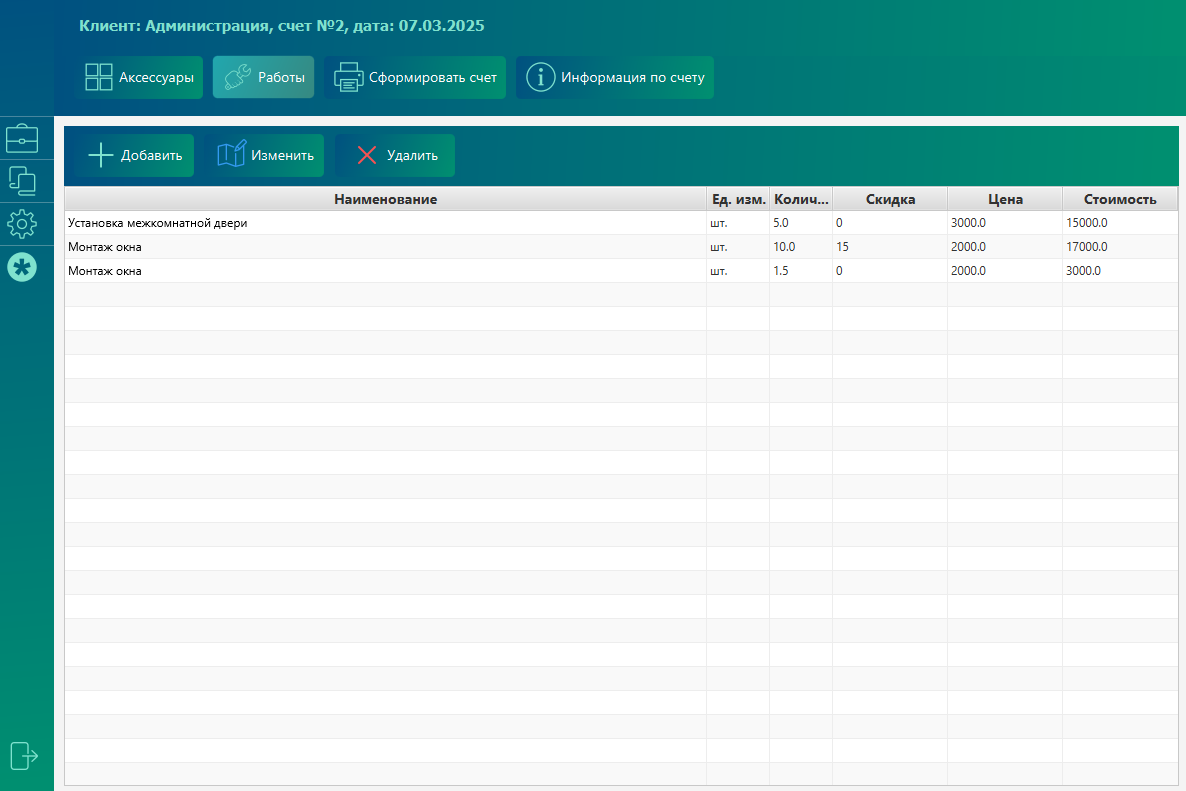
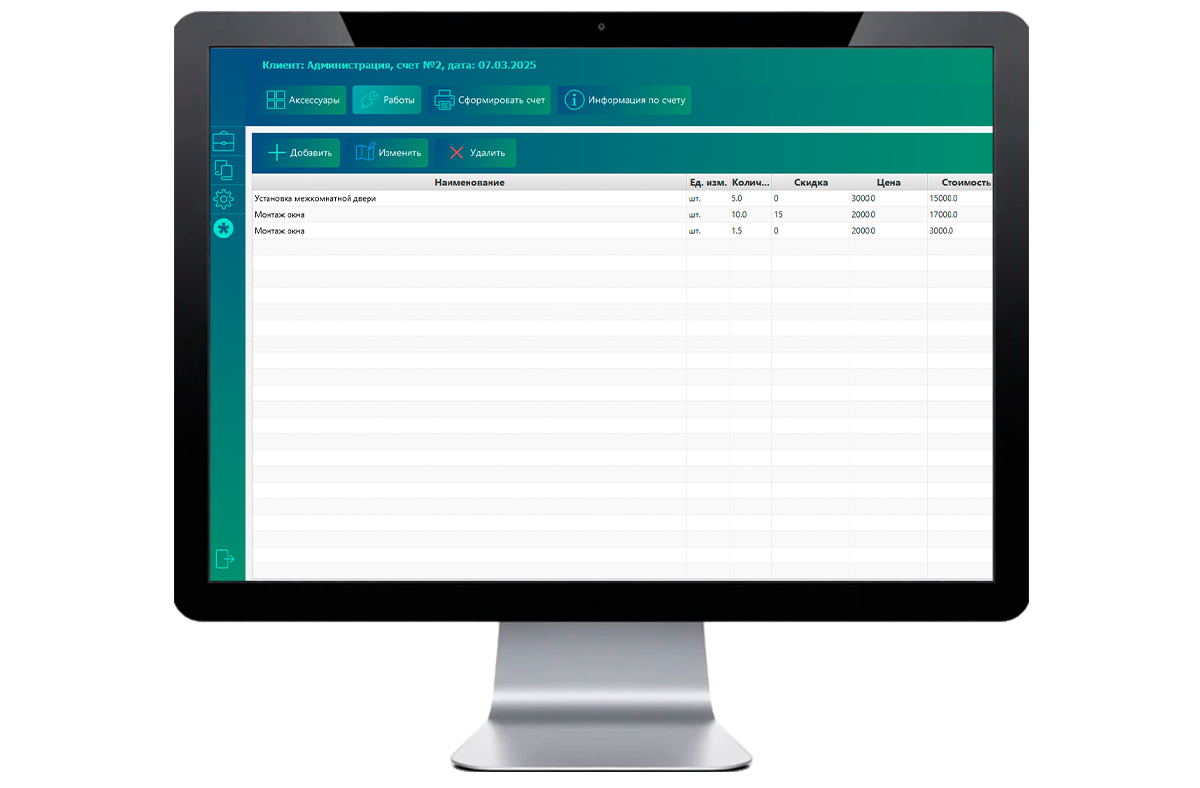
Добавлены скриншоты СОТ и калькулятора

diff --git a/src/data/projects.ts b/src/data/projects.ts
@@ -9,6 +9,12 @@ import sot2 from "@/assets/sot/sot-2.png";
 import sot3 from "@/assets/sot/sot-3.png";
 import sot4 from "@/assets/sot/sot-4.png";
 import sot5 from "@/assets/sot/sot-5.png";
+import sot6 from "@/assets/sot/sot-6.png";
+import sot7 from "@/assets/sot/sot-7.png";
+import sot8 from "@/assets/sot/sot-8.png";
+import sot9 from "@/assets/sot/sot-9.png";
+import sot10 from "@/assets/sot/sot-10.png";
+import sot11 from "@/assets/sot/sot-11.png";
 import asia1 from "@/assets/asia/asia-1.png";
 import asia2 from "@/assets/asia/asia-2.jpg";
 import asia3 from "@/assets/asia/asia-3.jpg";
@@ -38,13 +44,13 @@ export const projects: Project[] = [
     title: "Британские пекарни",
     description: "Мобильное приложение для заказа свежей выпечки и десертов из британских пекарен.",
     images: [backery1, backery2, backery3, backery4, backery5],
-    category: "E-commerce",
+    category: "Food & beverage",
     year: "2024"
   },
   {
     title: "Системы охраны труда",
-    description: "Современная мульти-модульная система автоматизации процессов и ведения документов в области охраны труда.",
-    images: [sot1, sot2, sot3, sot4, sot5],
+    description: "Мульти-модульная система автоматизации процессов и ведения документов по охране труда.",
+    images: [sot1, sot2, sot3, sot4, sot5, sot6, sot7, sot8, sot9, sot10, sot11],
     category: "Enterprise",
     year: "2024"
   },
@@ -59,14 +65,14 @@ export const projects: Project[] = [
     title: "Калькулятор сметы",
     description: "Комплексная платформа для расчета сметных работ с формированием печатных форм.",
     images: [smeta1, smeta2, smeta3, smeta4, smeta5, smeta6],
-    category: "E-commerce",
-    year: "2024"
+    category: "Enterprise",
+    year: "2025"
   },
   {
     title: "Магазин азиатской кухни",
     description: "Мобильное приложение для заказа блюд из кафе и ресторанов азиатской кухни.",
     images: [asia1, asia2, asia3, asia4, asia5],
-    category: "E-commerce",
+    category: "Food & beverage",
     year: "2024"
   },
 ];
